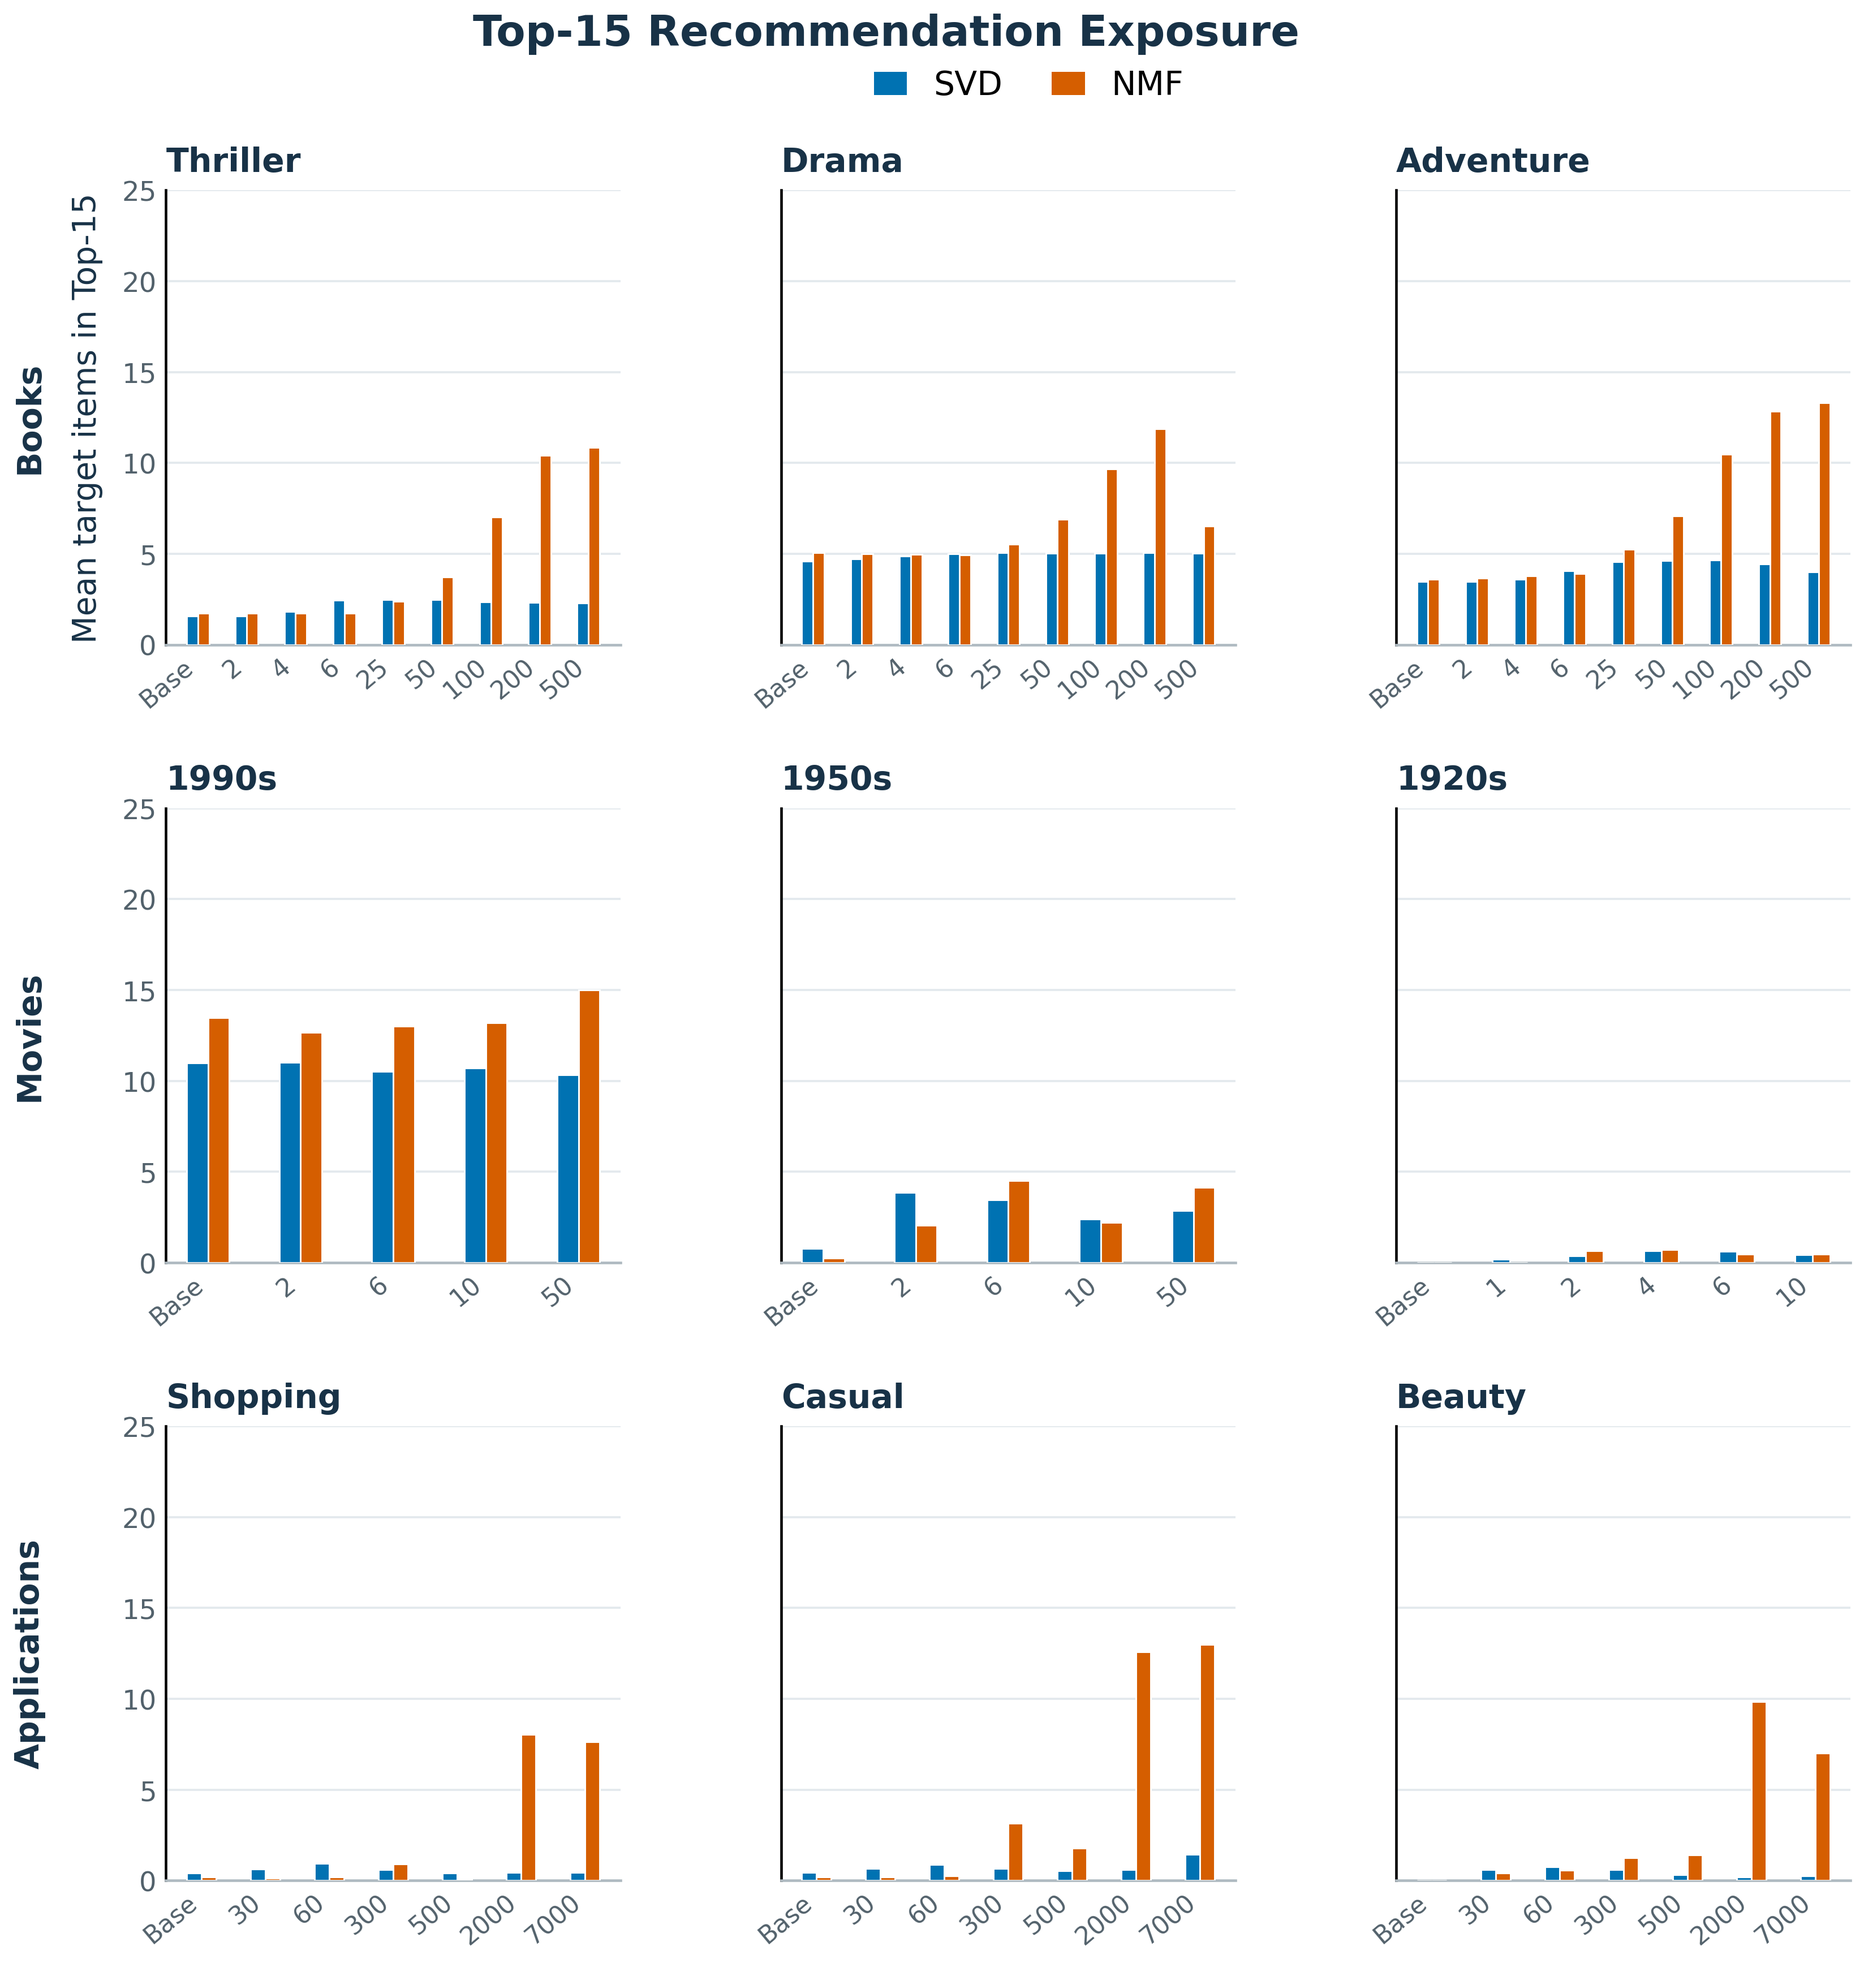
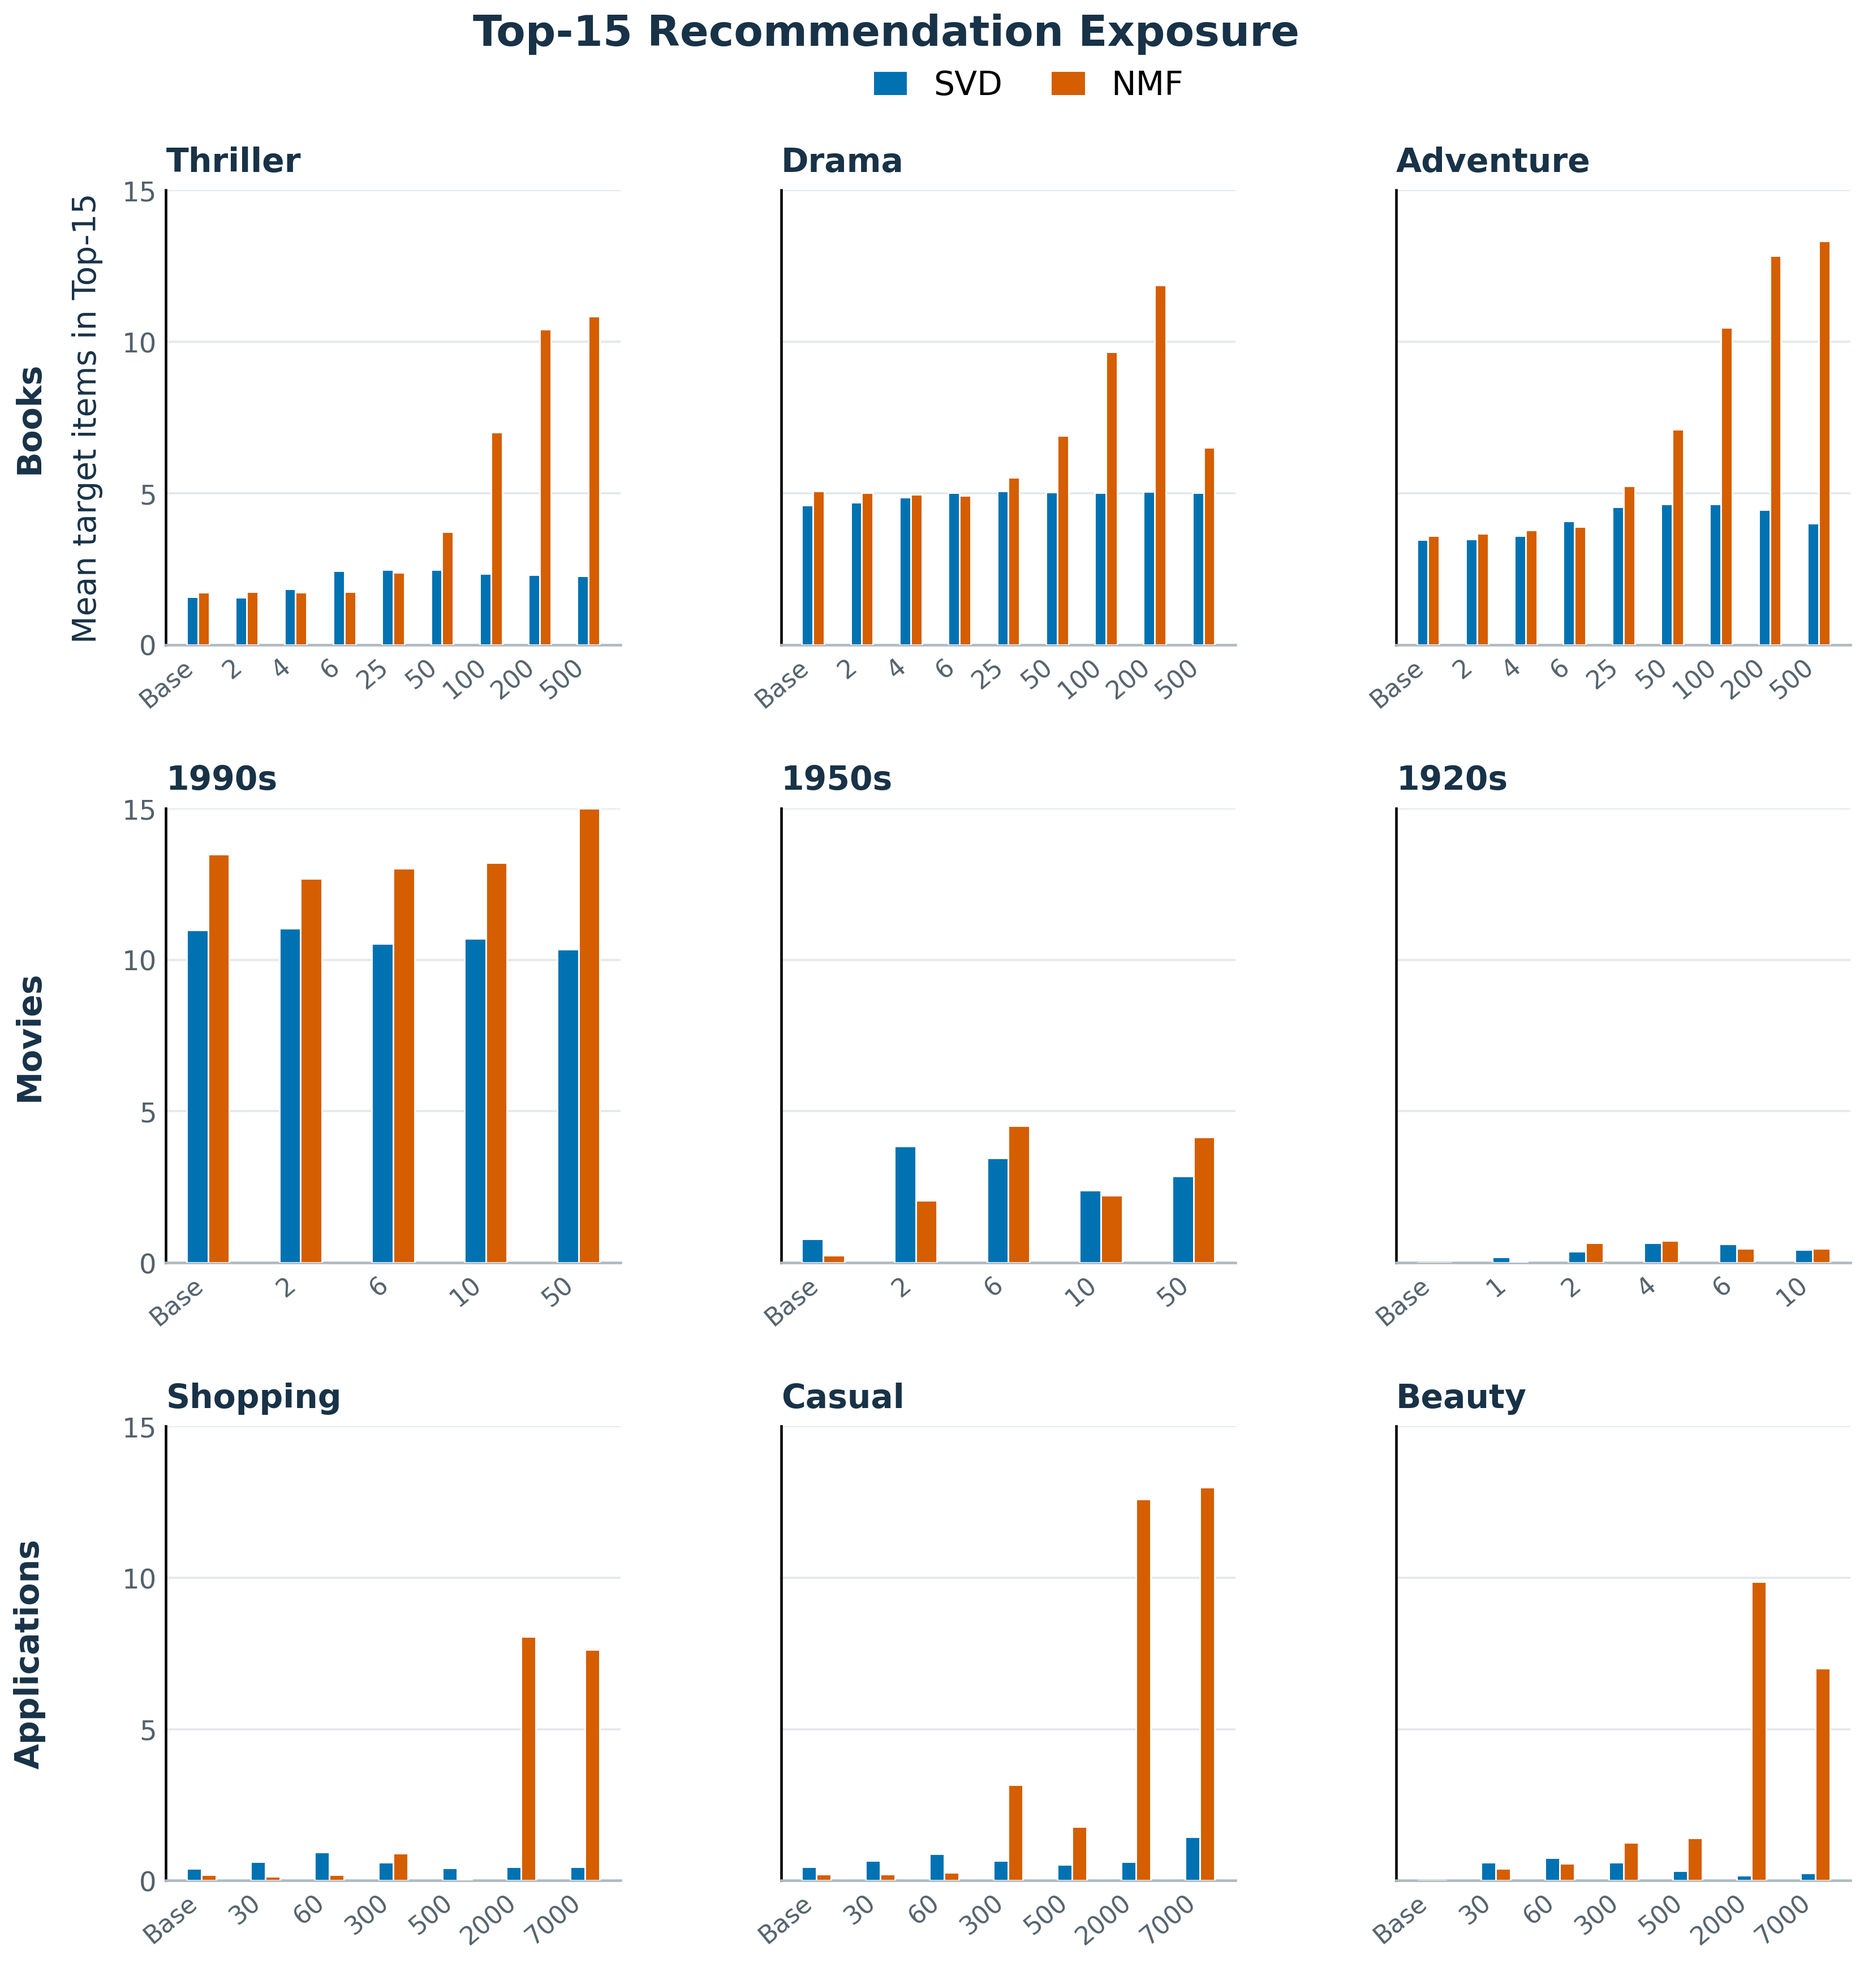
Restore Top-15 exposure y axis scale

diff --git a/First_paper_material/notebook/build_compact_3x3_exposure.py b/First_paper_material/notebook/build_compact_3x3_exposure.py
@@ -33,7 +33,7 @@ for row,(domain,categories) in enumerate(layout):
    w=.23
    ax.bar(x+(-w/2 if j==0 else w/2),vals,w,color=colors[model],edgecolor="white",linewidth=.35,zorder=3)
   ax.set_title(cat,loc="left",color="#183247",pad=4)
-  ax.set_ylim(0,25);ax.set_yticks([0,5,10,15,20,25])
+  ax.set_ylim(0,15);ax.set_yticks([0,5,10,15])
   ax.set_xticks(x,["Base" if n==0 else str(n) for n in ns],rotation=40,ha="right")
   ax.tick_params(axis="both",length=0,pad=2,colors="#52616B")
   ax.grid(axis="y",color="#E3E9ED",linewidth=.45,zorder=0);ax.set_axisbelow(True)
